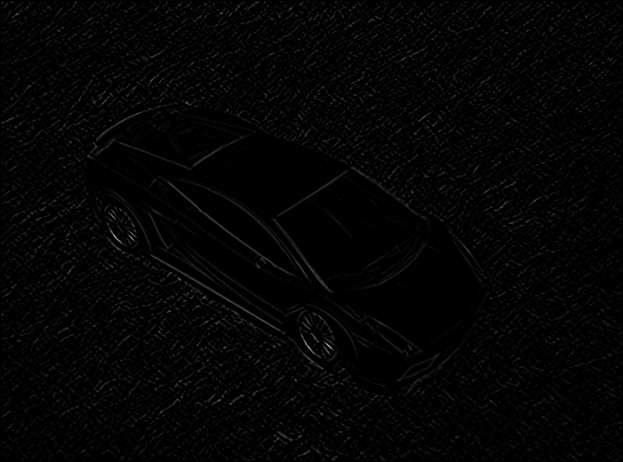
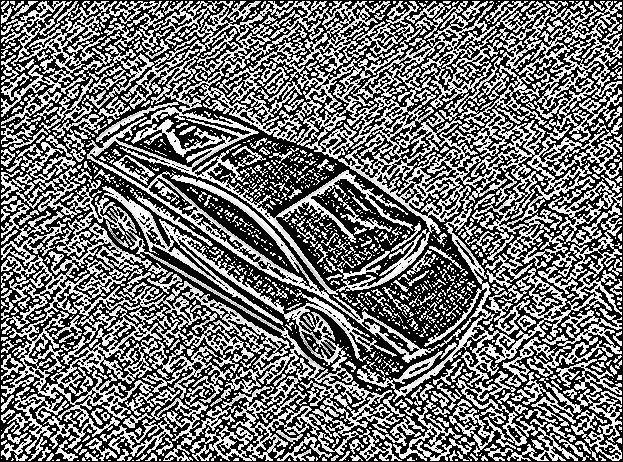
As3: Done

diff --git a/assignment_3/main.py b/assignment_3/main.py
@@ -1,21 +1,57 @@
 import cv2
 import os
+import numpy as np
 
+INPUT_DIR = "images"
 OUTPUT_DIR = "solutions"
 
 def sobel_edge_detection(image):
     imageGray = cv2.cvtColor(image, cv2.COLOR_BGR2GRAY)
     imageBlur = cv2.GaussianBlur(imageGray, ksize=(3,3), sigmaX=0)
-    sobelxy = cv2.Sobel(src=imageBlur, ddepth=cv2.CV_64F, dx=1, dy=1, ksize=1)
+    sobelxy = 255 * cv2.Sobel(src=imageBlur, ddepth=cv2.CV_64F, dx=1, dy=1, ksize=1).clip(0, 255).astype(np.uint8)
     cv2.imwrite(f"{OUTPUT_DIR}/Part_1.png", sobelxy)
 
+def canny_edge_detection(image, threshold_1, threshold_2):
+    imageGray = cv2.cvtColor(image, cv2.COLOR_BGR2GRAY)
+    imageBlur = cv2.GaussianBlur(imageGray, ksize=(3,3), sigmaX=0)
+    edges = cv2.Canny(imageBlur, threshold_1, threshold_2)
+    cv2.imwrite(f"{OUTPUT_DIR}/Part_2.png", edges)
 
+def template_match(image, template):
+    h,w, _ = template.shape
+    imageGray = cv2.cvtColor(image, cv2.COLOR_BGR2GRAY)
+    templateGray = cv2.cvtColor(template, cv2.COLOR_BGR2GRAY)
+    res = cv2.matchTemplate(imageGray,templateGray,cv2.TM_CCOEFF_NORMED)
+    threshold = 0.9
+    loc = np.where(res >= threshold)
+    for x,y in zip(*loc[::-1]):
+        cv2.rectangle(image, (x,y), (x + w, y + h), (0,0,255), 1)
+    cv2.imwrite(f"{OUTPUT_DIR}/Part_3.jpg", image)
 
+def resize( image, scale_factor: int, up_or_down: str):
+    rows, cols, _ = image.shape
+
+    if up_or_down == "up":
+        resizedImage = cv2.pyrUp(image, dstsize=(scale_factor * cols, scale_factor * rows))
+    elif up_or_down== "down":
+        resizedImage = cv2.pyrDown(image, dstsize=(scale_factor // cols, scale_factor // rows))
+    else:
+        print("function resize: Invalid input")
+        return
+    cv2.imwrite(f"{OUTPUT_DIR}/Part_4.png", resizedImage)
 
 def main():
     os.makedirs(f"{OUTPUT_DIR}", exist_ok=True)
-    image = cv2.imread("lambo.png", cv2.IMREAD_UNCHANGED)
-    sobel_edge_detection(image)
+    lamboImage = cv2.imread(f"{INPUT_DIR}/lambo.png", cv2.IMREAD_UNCHANGED)
+    shapesImageGray = cv2.imread(f"{INPUT_DIR}/shapes-1.png", cv2.IMREAD_UNCHANGED)
+    shapesTemplateGray = cv2.imread(f"{INPUT_DIR}/shapes_template.jpg", cv2.IMREAD_UNCHANGED)
+
+    sobel_edge_detection(lamboImage)
+    canny_edge_detection(lamboImage, threshold_1=50, threshold_2=50)
+
+    template_match(shapesImageGray, shapesTemplateGray)
+    resize(lamboImage, scale_factor=2, up_or_down="up")
+    return 0
 
 if __name__ == "__main__":
     main()
